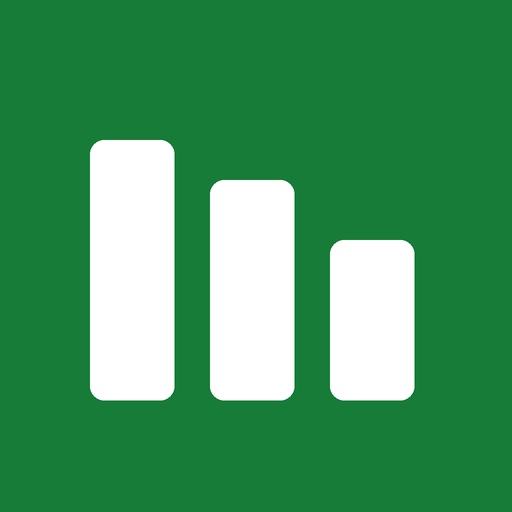
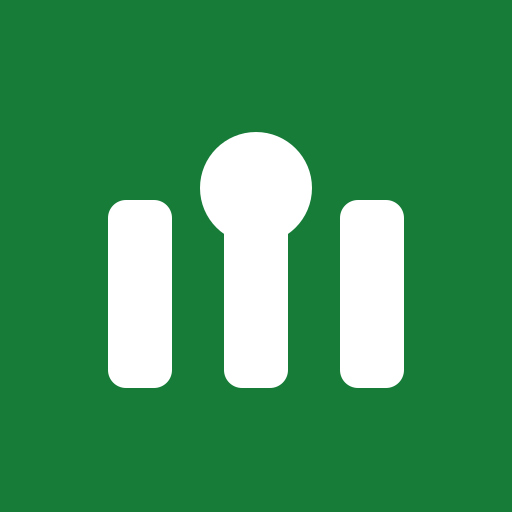
Ship Solo Dev Board display name and Solo family brand mark.
Replace the interim bar-chart favicon with a board-plus-solo-seal mark, centralise ProductBranding.DisplayName, and apply it across app chrome, Welcome, docs, and the public site (#397, #531).

Changed region(s): [[0.1562, 0.25, 0.3438, 0.7812], [0.375, 0.25, 0.625, 0.7812], [0.625, 0.375, 0.8125, 0.7812]]

diff --git a/website/layouts/_partials/custom/footer.html b/website/layouts/_partials/custom/footer.html
@@ -1,7 +1,7 @@
 {{- $version := site.Params.releaseVersion | default "unreleased" -}}
 <div class="hx:mx-auto hx:flex hx:max-w-screen-xl hx:flex-col hx:items-center hx:gap-2 hx:px-6 hx:py-8 hx:text-center hx:text-sm hx:text-gray-600 hx:dark:text-gray-400">
   {{- if site.Params.footer.displayCopyright }}
-  <div>© {{ now.Year }} SoloDevBoard</div>
+  <div>© {{ now.Year }} Solo Dev Board</div>
   {{- end }}
   <div>Open source under the MIT licence. Setup, Aspire, and Azure deployment live in the repository <code>docs/</code> folder.</div>
   {{- if and $version (ne $version "unreleased") }}

diff --git a/tests/SoloDevBoard.Web.Tests/SoloDevBoardThemeFallbackTests.cs b/tests/SoloDevBoard.Web.Tests/SoloDevBoardThemeFallbackTests.cs
@@ -72,11 +72,25 @@ public sealed class SoloDevBoardThemeFallbackTests
         {
             new[] { "src", "SoloDevBoard.Web", "wwwroot", "favicon.svg" },
             new[] { "docs", "assets", "github-app", "icon.svg" },
+            new[] { "website", "static", "images", "logo.svg" },
         })
         {
             var svg = ReadRepoFile(relativeParts);
             Assert.Contains($"fill=\"{primary}\"", svg, StringComparison.OrdinalIgnoreCase);
         }
+    }
+
+    [Fact]
+    public void BrandMarkSvgs_ShareSoloFamilySealGeometry()
+    {
+        var favicon = ReadRepoFile("src", "SoloDevBoard.Web", "wwwroot", "favicon.svg");
+        var githubApp = ReadRepoFile("docs", "assets", "github-app", "icon.svg");
+        var publicSite = ReadRepoFile("website", "static", "images", "logo.svg");
+
+        Assert.Equal(favicon, githubApp);
+        Assert.Equal(favicon, publicSite);
+        Assert.Contains("<circle cx=\"256\" cy=\"188\" r=\"56\"", favicon, StringComparison.Ordinal);
+        Assert.Contains("aria-label=\"Solo Dev Board\"", favicon, StringComparison.Ordinal);
     }
 
     private static string ReadRepoFile(params string[] relativeParts) =>

diff --git a/tests/SoloDevBoard.Web.Tests/AuditTests.cs b/tests/SoloDevBoard.Web.Tests/AuditTests.cs
@@ -378,7 +378,7 @@ public sealed class AuditTests
             Assert.Single(cut.FindAll("[data-testid='audit-summary-table']"));
             Assert.Contains("Needs triage", cut.Markup);
             Assert.DoesNotContain("Unable to load audit summary", cut.Markup);
-            Assert.Contains("Labels match the SoloDevBoard taxonomy — great!", cut.Markup);
+            Assert.Contains("Labels match the Solo Dev Board taxonomy - great!", cut.Markup);
             var labelConsistencyLoadFailed = (bool)typeof(Audit)
                 .GetField("labelConsistencyLoadFailed", BindingFlags.Instance | BindingFlags.NonPublic)!
                 .GetValue(cut.Instance)!;
@@ -414,7 +414,7 @@ public sealed class AuditTests
             Assert.Contains("No unlabelled issues — great!", cut.Markup);
             Assert.Contains("No stale pull requests — great!", cut.Markup);
             Assert.Contains("No failing workflows — great!", cut.Markup);
-            Assert.Contains("Labels match the SoloDevBoard taxonomy — great!", cut.Markup);
+            Assert.Contains("Labels match the Solo Dev Board taxonomy - great!", cut.Markup);
         });
     }
 

diff --git a/tests/SoloDevBoard.Application.Tests/AuditDashboardMarkdownExporterTests.cs b/tests/SoloDevBoard.Application.Tests/AuditDashboardMarkdownExporterTests.cs
@@ -89,7 +89,7 @@ public sealed class AuditDashboardMarkdownExporterTests
         Assert.Contains("No unlabelled issues — great!", markdown);
         Assert.Contains("No stale pull requests — great!", markdown);
         Assert.Contains("No failing workflows — great!", markdown);
-        Assert.Contains("Labels match the SoloDevBoard taxonomy — great!", markdown);
+        Assert.Contains("Labels match the Solo Dev Board taxonomy - great!", markdown);
     }
 
     [Fact]
@@ -120,7 +120,7 @@ public sealed class AuditDashboardMarkdownExporterTests
         Assert.Contains("Workflow health could not be loaded for this export.", markdown);
         Assert.Contains("Label consistency could not be loaded for this export.", markdown);
         Assert.DoesNotContain("No failing workflows — great!", markdown);
-        Assert.DoesNotContain("Labels match the SoloDevBoard taxonomy — great!", markdown);
+        Assert.DoesNotContain("Labels match the Solo Dev Board taxonomy - great!", markdown);
     }
 
     [Fact]

diff --git a/tests/SoloDevBoard.Web.Tests/MainLayoutThemeTests.cs b/tests/SoloDevBoard.Web.Tests/MainLayoutThemeTests.cs
@@ -5,6 +5,7 @@ using Microsoft.Extensions.Options;
 using MudBlazor.Services;
 using NSubstitute;
 using SoloDevBoard.Application.Authentication;
+using SoloDevBoard.Application.Services.Common;
 using SoloDevBoard.Application.Services.GitHub;
 using SoloDevBoard.Web.Components.Shell.Layout;
 using SoloDevBoard.Web.Theming;
@@ -35,6 +36,15 @@ public sealed class MainLayoutThemeTests : BunitContext
         _themePreferenceService.IsInitialised.Returns(true);
         _themePreferenceService.InitialiseAsync().Returns(Task.CompletedTask);
         _themePreferenceService.CycleAsync().Returns(Task.CompletedTask);
+    }
+
+    [Fact]
+    public void MainLayout_WhenRendered_ShowsBrandMarkAndDisplayName()
+    {
+        var cut = Render<MainLayout>();
+
+        Assert.NotEmpty(cut.FindAll("[data-testid='brand-mark']"));
+        Assert.Contains(ProductBranding.DisplayName, cut.Markup, StringComparison.Ordinal);
     }
 
     [Theory]

diff --git a/tests/SoloDevBoard.Application.Tests/RecommendedLabelTaxonomyCatalogTests.cs b/tests/SoloDevBoard.Application.Tests/RecommendedLabelTaxonomyCatalogTests.cs
@@ -1,3 +1,4 @@
+using SoloDevBoard.Application.Services.Common;
 using SoloDevBoard.Application.Services.Labels;
 
 namespace SoloDevBoard.Application.Tests;
@@ -5,6 +6,17 @@ namespace SoloDevBoard.Application.Tests;
 /// <summary>Unit tests for <see cref="RecommendedLabelTaxonomyCatalog"/>.</summary>
 public sealed class RecommendedLabelTaxonomyCatalogTests
 {
+    [Fact]
+    public void Strategies_SoloDevBoardDisplayName_MatchesProductBranding()
+    {
+        var strategy = Assert.Single(
+            RecommendedLabelTaxonomyCatalog.Strategies,
+            item => item.Id == RecommendedLabelTaxonomyCatalog.SoloDevBoardStrategyId);
+
+        Assert.Equal(ProductBranding.DisplayName, strategy.Name);
+        Assert.Contains(ProductBranding.DisplayName, strategy.Description, StringComparison.Ordinal);
+    }
+
     [Fact]
     public void TryGetLabels_WhenStrategyIdIsSoloDevBoard_ReturnsCanonicalTaxonomy()
     {

diff --git a/src/SoloDevBoard.Application/Services/Labels/RecommendedLabelTaxonomyCatalog.cs b/src/SoloDevBoard.Application/Services/Labels/RecommendedLabelTaxonomyCatalog.cs
@@ -1,3 +1,5 @@
+using SoloDevBoard.Application.Services.Common;
+
 namespace SoloDevBoard.Application.Services.Labels;
 
 /// <summary>Provides the built-in recommended label taxonomies shared by Label Manager and Audit Dashboard.</summary>
@@ -57,7 +59,7 @@ public static class RecommendedLabelTaxonomyCatalog
     /// <summary>Gets the available built-in recommended strategies.</summary>
     public static IReadOnlyList<RecommendedLabelStrategyDto> Strategies { get; } =
     [
-        new(SoloDevBoardStrategyId, "SoloDevBoard", "The SoloDevBoard canonical taxonomy covering type, priority, status, and size labels."),
+        new(SoloDevBoardStrategyId, ProductBranding.DisplayName, $"The {ProductBranding.DisplayName} canonical taxonomy covering type, priority, status, and size labels."),
         new(GitHubDefaultStrategyId, "GitHub default", "GitHub's default label set for new repositories."),
     ];
 

diff --git a/tests/SoloDevBoard.Web.Tests/WelcomePageTests.cs b/tests/SoloDevBoard.Web.Tests/WelcomePageTests.cs
@@ -5,6 +5,7 @@ using Microsoft.Extensions.DependencyInjection;
 using Microsoft.Extensions.Options;
 using MudBlazor.Services;
 using SoloDevBoard.Application.Authentication;
+using SoloDevBoard.Application.Services.Common;
 using SoloDevBoard.Web.Components.Features.Auth.Pages;
 
 namespace SoloDevBoard.Web.Tests;
@@ -32,6 +33,8 @@ public sealed class WelcomePageTests : BunitContext
 
         // Assert
         Assert.Contains("Sign in with GitHub", cut.Markup);
+        Assert.Equal(ProductBranding.DisplayName, cut.Find("[data-testid='welcome-product-name']").TextContent.Trim());
+        Assert.NotEmpty(cut.FindAll("[data-testid='brand-mark']"));
         var signInButton = cut.Find("[data-testid='welcome-sign-in']");
         Assert.Equal("/auth/sign-in", signInButton.GetAttribute("href"));
     }

diff --git a/src/SoloDevBoard.Web/Components/Features/About/Pages/About.razor.cs b/src/SoloDevBoard.Web/Components/Features/About/Pages/About.razor.cs
@@ -8,7 +8,6 @@ namespace SoloDevBoard.Web.Components.Features.About.Pages;
 public partial class About : ComponentBase
 {
     private const string RepositoryAddress = "https://github.com/markheydon/solo-dev-board";
-    private const string ProductName = "SoloDevBoard";
 
     private GitHubAuthenticationSummary? _authenticationSummary;
 
@@ -20,7 +19,7 @@ public partial class About : ComponentBase
     [Inject]
     public IGitHubAuthenticationSummaryService AuthenticationSummaryService { get; set; } = default!;
 
-    private string ApplicationName => ProductName;
+    private string ApplicationName => ProductBranding.DisplayName;
 
     private string Version => AppVersionService.Version;
 

diff --git a/src/SoloDevBoard.Application/Services/Common/ProductBranding.cs b/src/SoloDevBoard.Application/Services/Common/ProductBranding.cs
@@ -1,0 +1,14 @@
+namespace SoloDevBoard.Application.Services.Common;
+
+/// <summary>User-facing product identity. Code identifiers remain <c>SoloDevBoard</c>.</summary>
+public static class ProductBranding
+{
+    /// <summary>Spoken and display name for chrome, docs, and end-user copy.</summary>
+    public const string DisplayName = "Solo Dev Board";
+
+    /// <summary>
+    /// Relative path to the brand mark in the Blazor wwwroot (also used as favicon).
+    /// The same SVG lives under <c>docs/assets/github-app/icon.svg</c> for the GitHub App listing.
+    /// </summary>
+    public const string MarkPath = "favicon.svg";
+}

diff --git a/tests/SoloDevBoard.Web.Tests/LabelsTests.cs b/tests/SoloDevBoard.Web.Tests/LabelsTests.cs
@@ -1956,7 +1956,7 @@ public sealed class LabelsTests
         ctx.Services.AddTestGitHubAuthenticationRecovery();
 
         _labelManagerService.GetRecommendedLabelStrategiesAsync(Arg.Any<CancellationToken>()).Returns([
-                new RecommendedLabelStrategyDto("solodevboard", "SoloDevBoard", "SoloDevBoard canonical taxonomy"),
+                new RecommendedLabelStrategyDto("solodevboard", "Solo Dev Board", "Solo Dev Board canonical taxonomy"),
                 new RecommendedLabelStrategyDto("github-default", "GitHub default", "GitHub default labels"),
             ]);
 

diff --git a/tests/SoloDevBoard.E2E.Tests/Tests/AboutTests.cs b/tests/SoloDevBoard.E2E.Tests/Tests/AboutTests.cs
@@ -28,7 +28,7 @@ public sealed class AboutTests : SoloDevBoardPageTest
 
         await Expect(Page).ToHaveURLAsync(new Regex("/about$"));
         await Expect(Page).ToHaveTitleAsync(new Regex("About"));
-        await Expect(Page.GetByTestId("about-application-name")).ToContainTextAsync("SoloDevBoard");
+        await Expect(Page.GetByTestId("about-application-name")).ToContainTextAsync("Solo Dev Board");
         await Expect(Page.GetByTestId("about-version")).Not.ToBeEmptyAsync();
 
         var versionText = await Page.GetByTestId("about-version").TextContentAsync();
